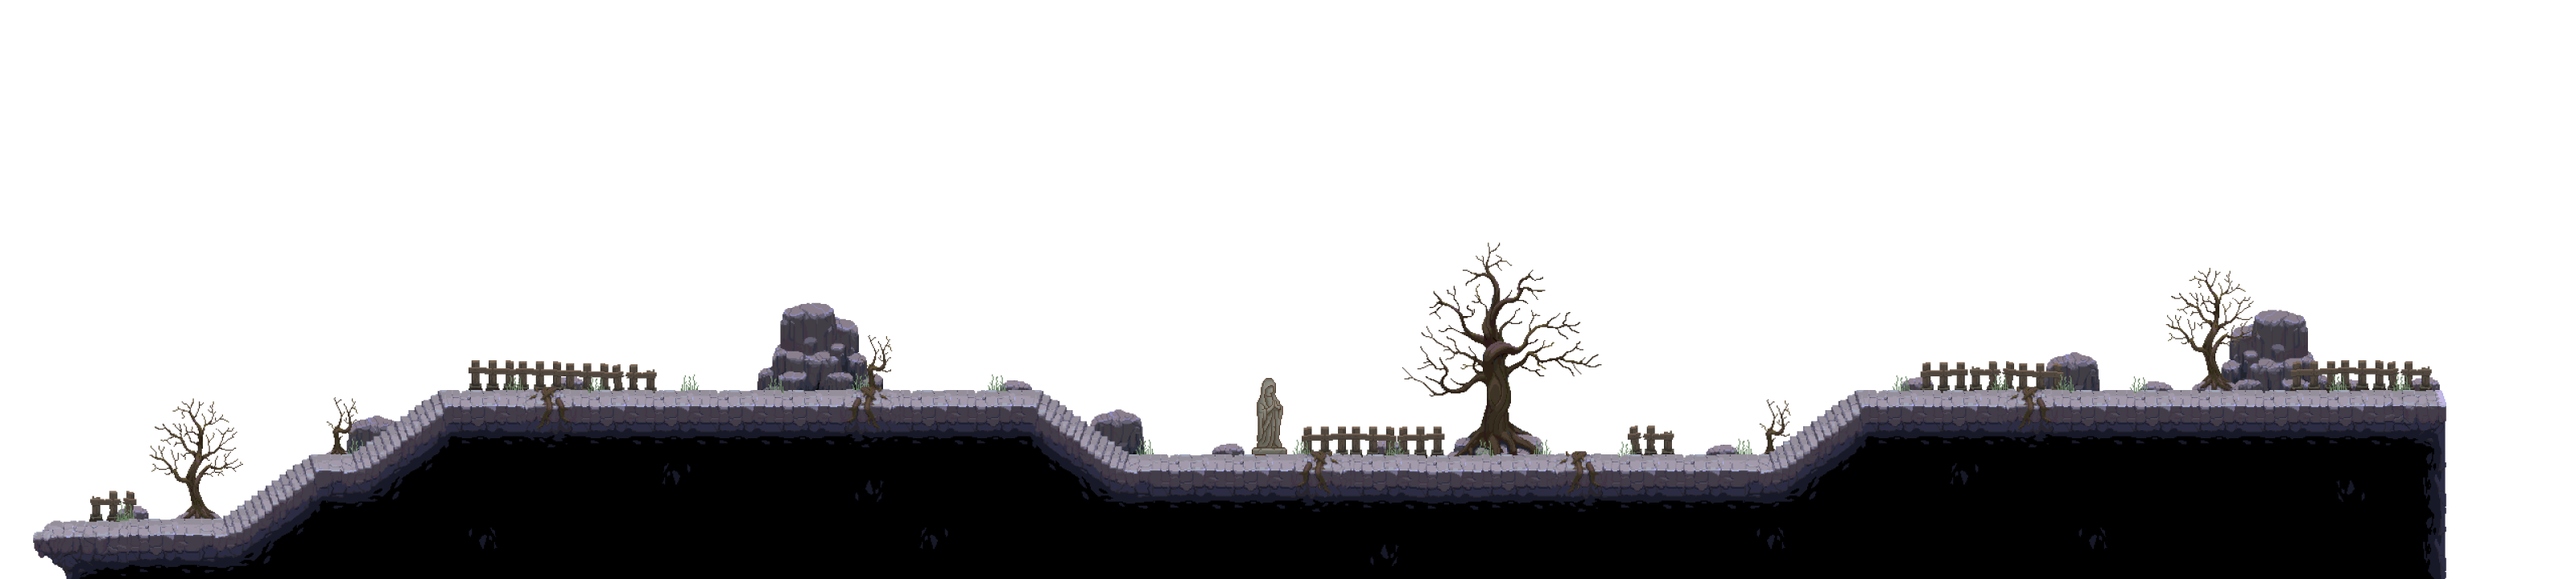
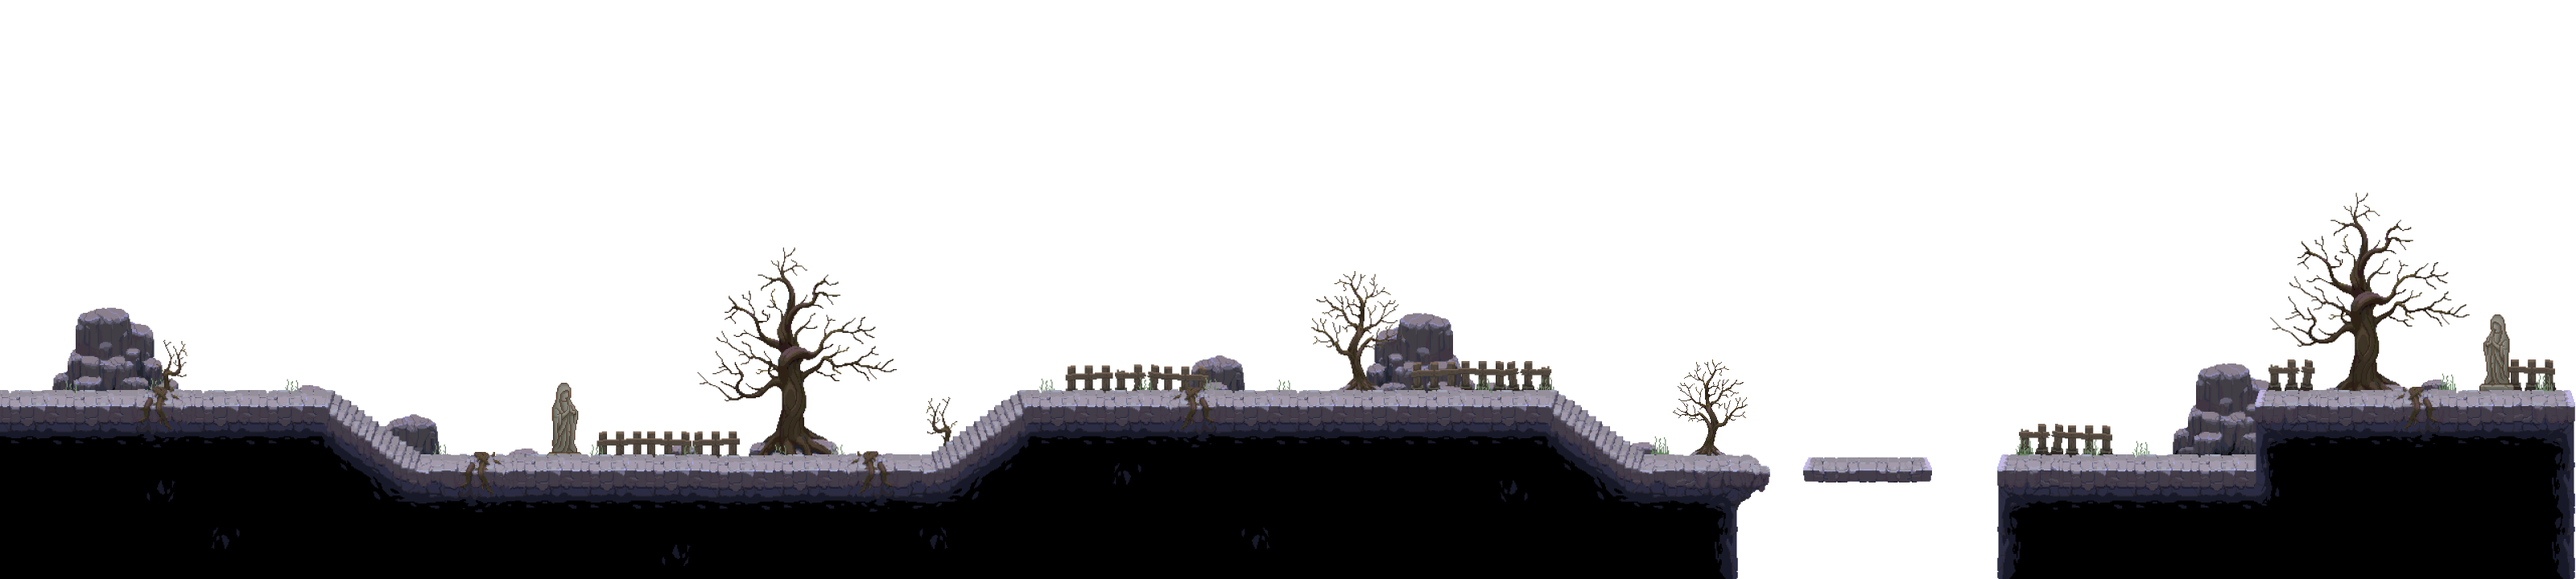
new nexus  + debut get_pos

Changed region(s): [[0.0, 0.3667, 1.0, 1.0]]

diff --git a/src/map/get_pos.c b/src/map/get_pos.c
@@ -1,0 +1,35 @@
+/*
+** EPITECH PROJECT, 2022
+** my_Rpg
+** File description:
+** get_pos
+*/
+
+#include "../../include/my.h"
+
+sfVector2f get_pos(map_t *map, char ch)
+{
+    sfVector2f pos;
+
+    for (int i = 0, j = 0; map->map[i]; j++) {
+        if (j == map->size) {
+            i++;
+            j = 0;
+        } if (map->map[i][j] == ch) {
+            pos.x = j * 80;
+            pos.y = 720 - i * 80;
+            return pos;
+        }
+    }
+    return (sfVector2f){0, 0};
+}
+
+int main(int ac, char **av)
+{
+    map_t *map = create_map(av[1]);
+    sfVector2f pos = get_pos(map, 'P');
+    sfVector2f fire = get_pos(map, 'f');
+    printf("ply x = %f; ply y = %f\n", pos.x, pos.y);
+    printf("fire x = %f; fire y = %f\n", fire.x, fire.y);
+    return 0;
+}

diff --git a/src/create/player.c b/src/create/player.c
@@ -25,7 +25,7 @@ void set_ply_rect(mob_t *ply)
 
 sfVector2f get_ply_pos(game_t *game)
 {
-    return (sfVector2f){200, 480};
+    return (sfVector2f){80, 480};
 }
 
 mob_t *create_player(game_t *game)
@@ -38,7 +38,7 @@ mob_t *create_player(game_t *game)
     ply->pos = get_ply_pos(game);
     sfSprite_setTexture(ply->sprt, ply->txtr, sfFalse);
     sfSprite_setTextureRect(ply->sprt, ply->rect[ply->i]);
-    sfSprite_setScale(ply->sprt, (sfVector2f){2.55, 2.55});
+    sfSprite_setScale(ply->sprt, (sfVector2f){2.45, 2.45});
     sfSprite_setOrigin(ply->sprt, (sfVector2f){60, 40});
     sfSprite_setPosition(ply->sprt, ply->pos);
     return ply;
